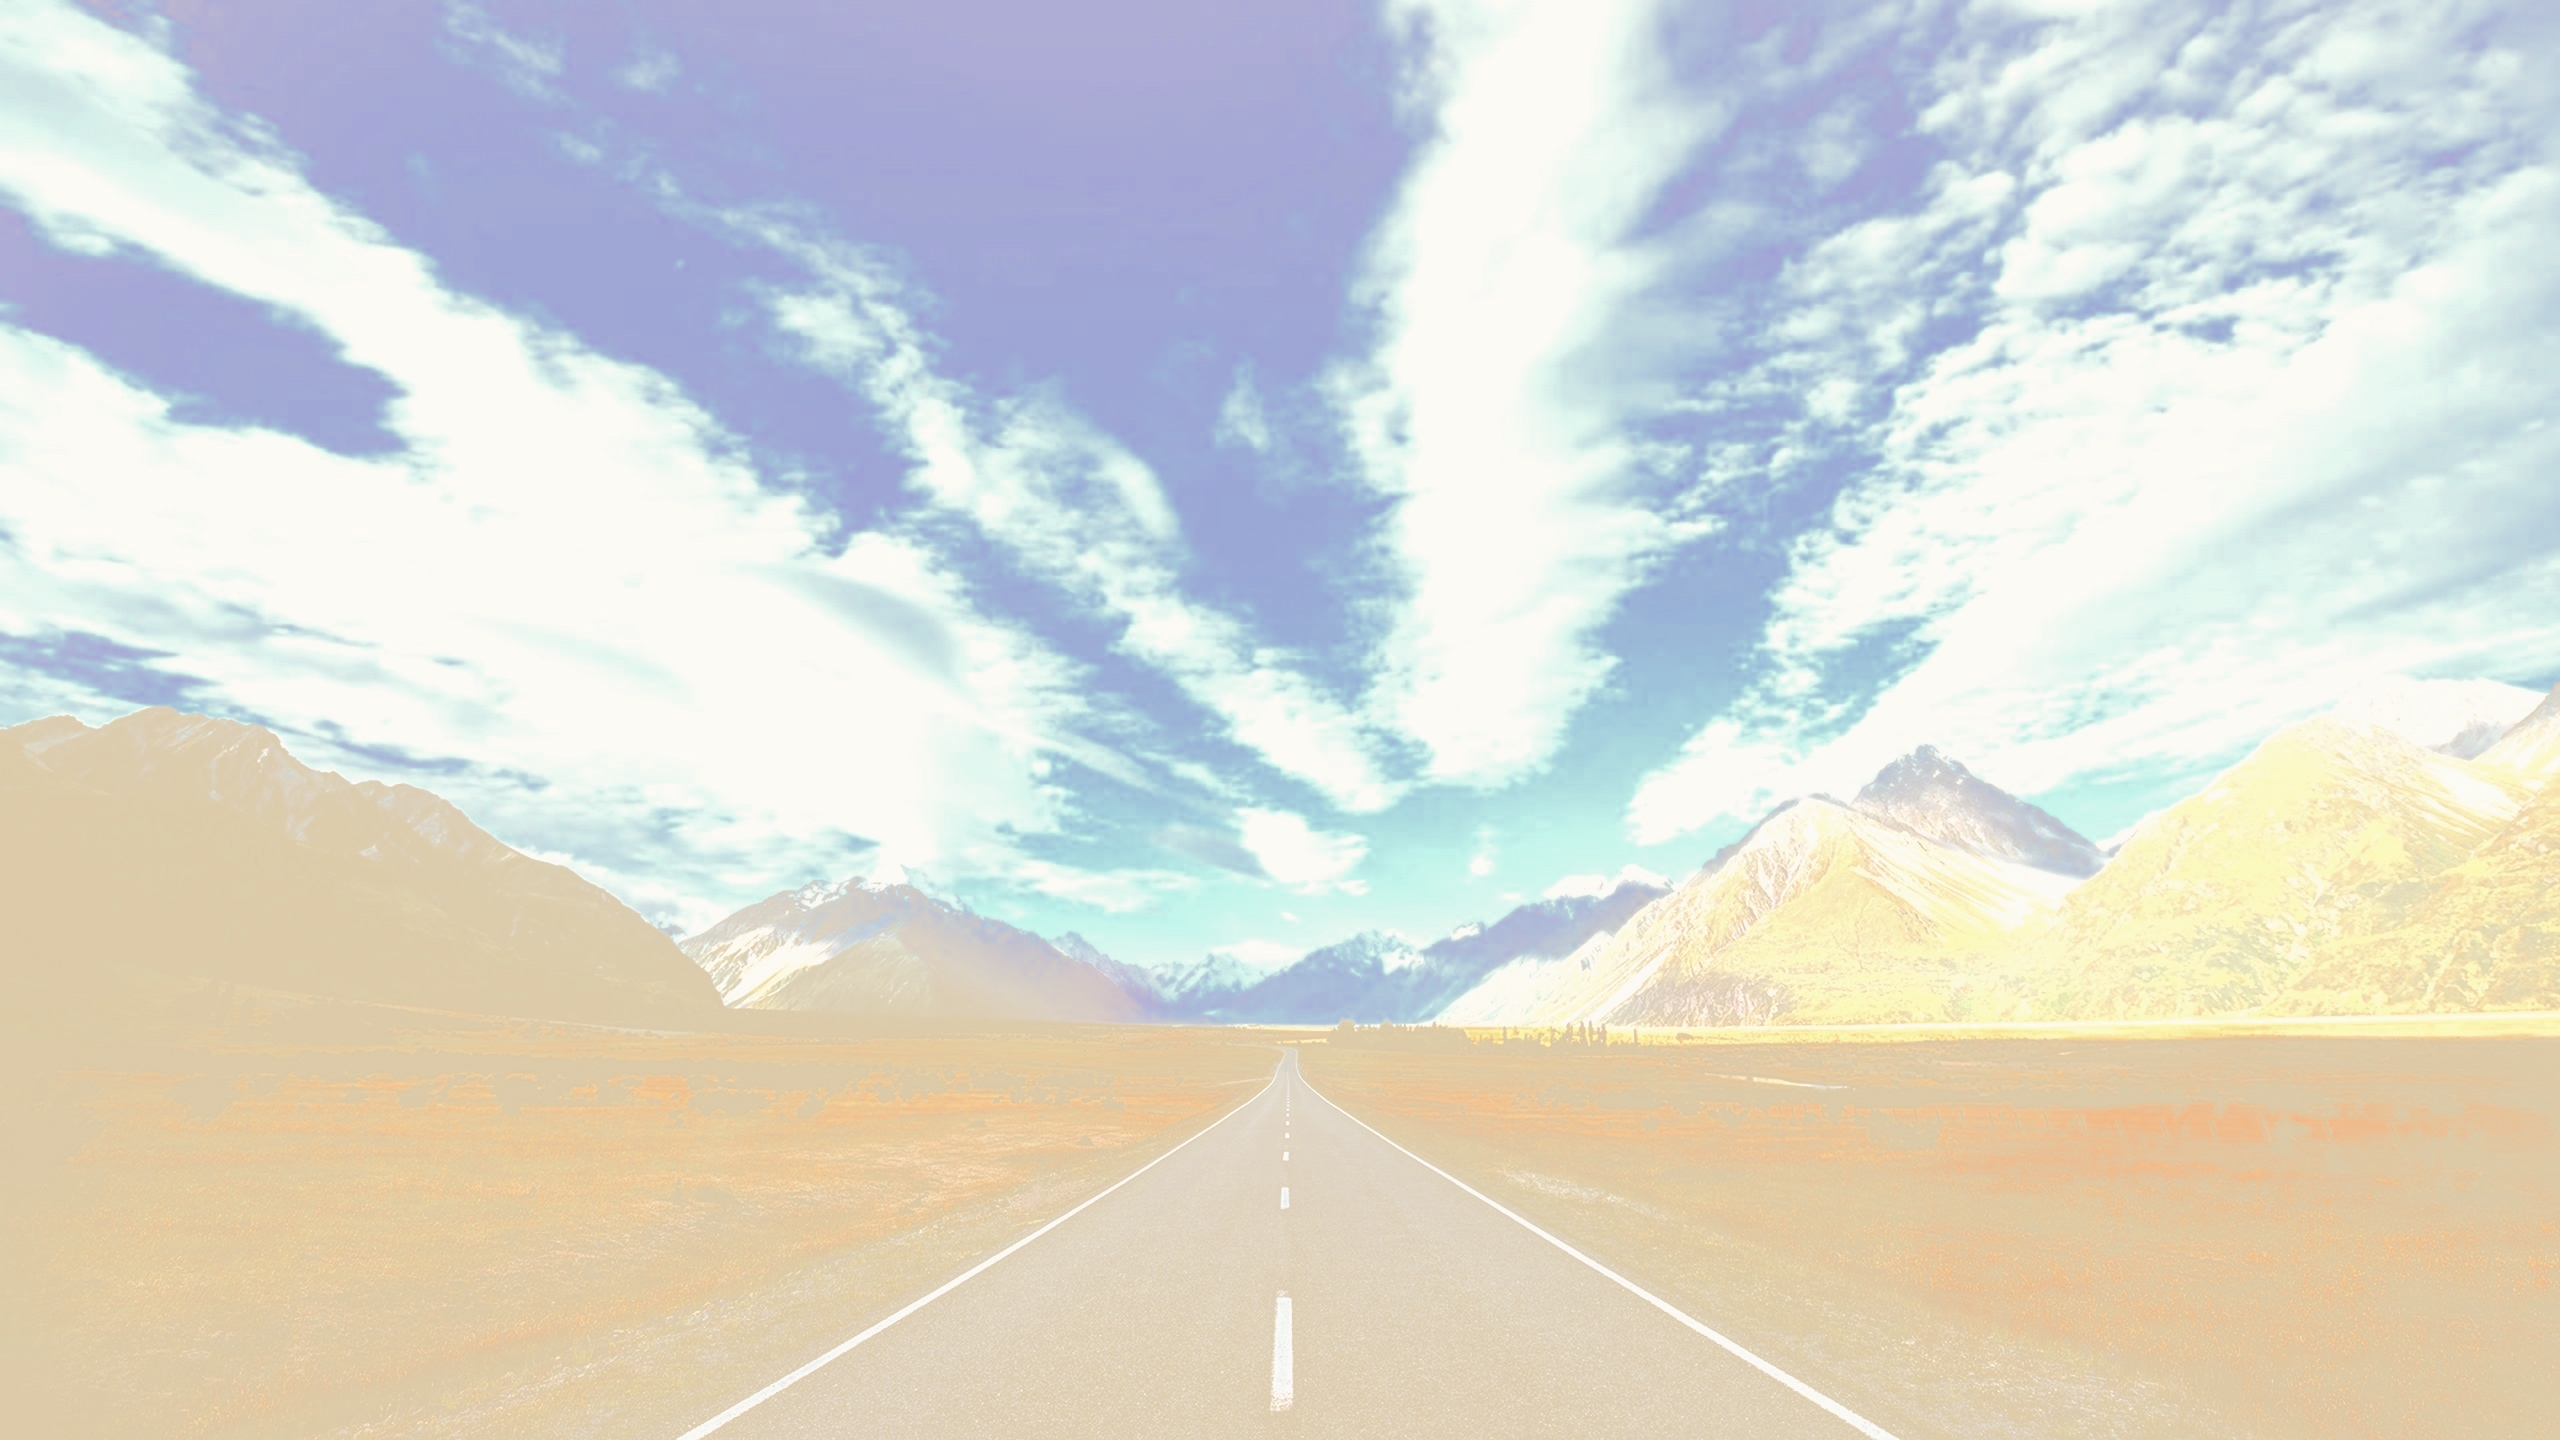
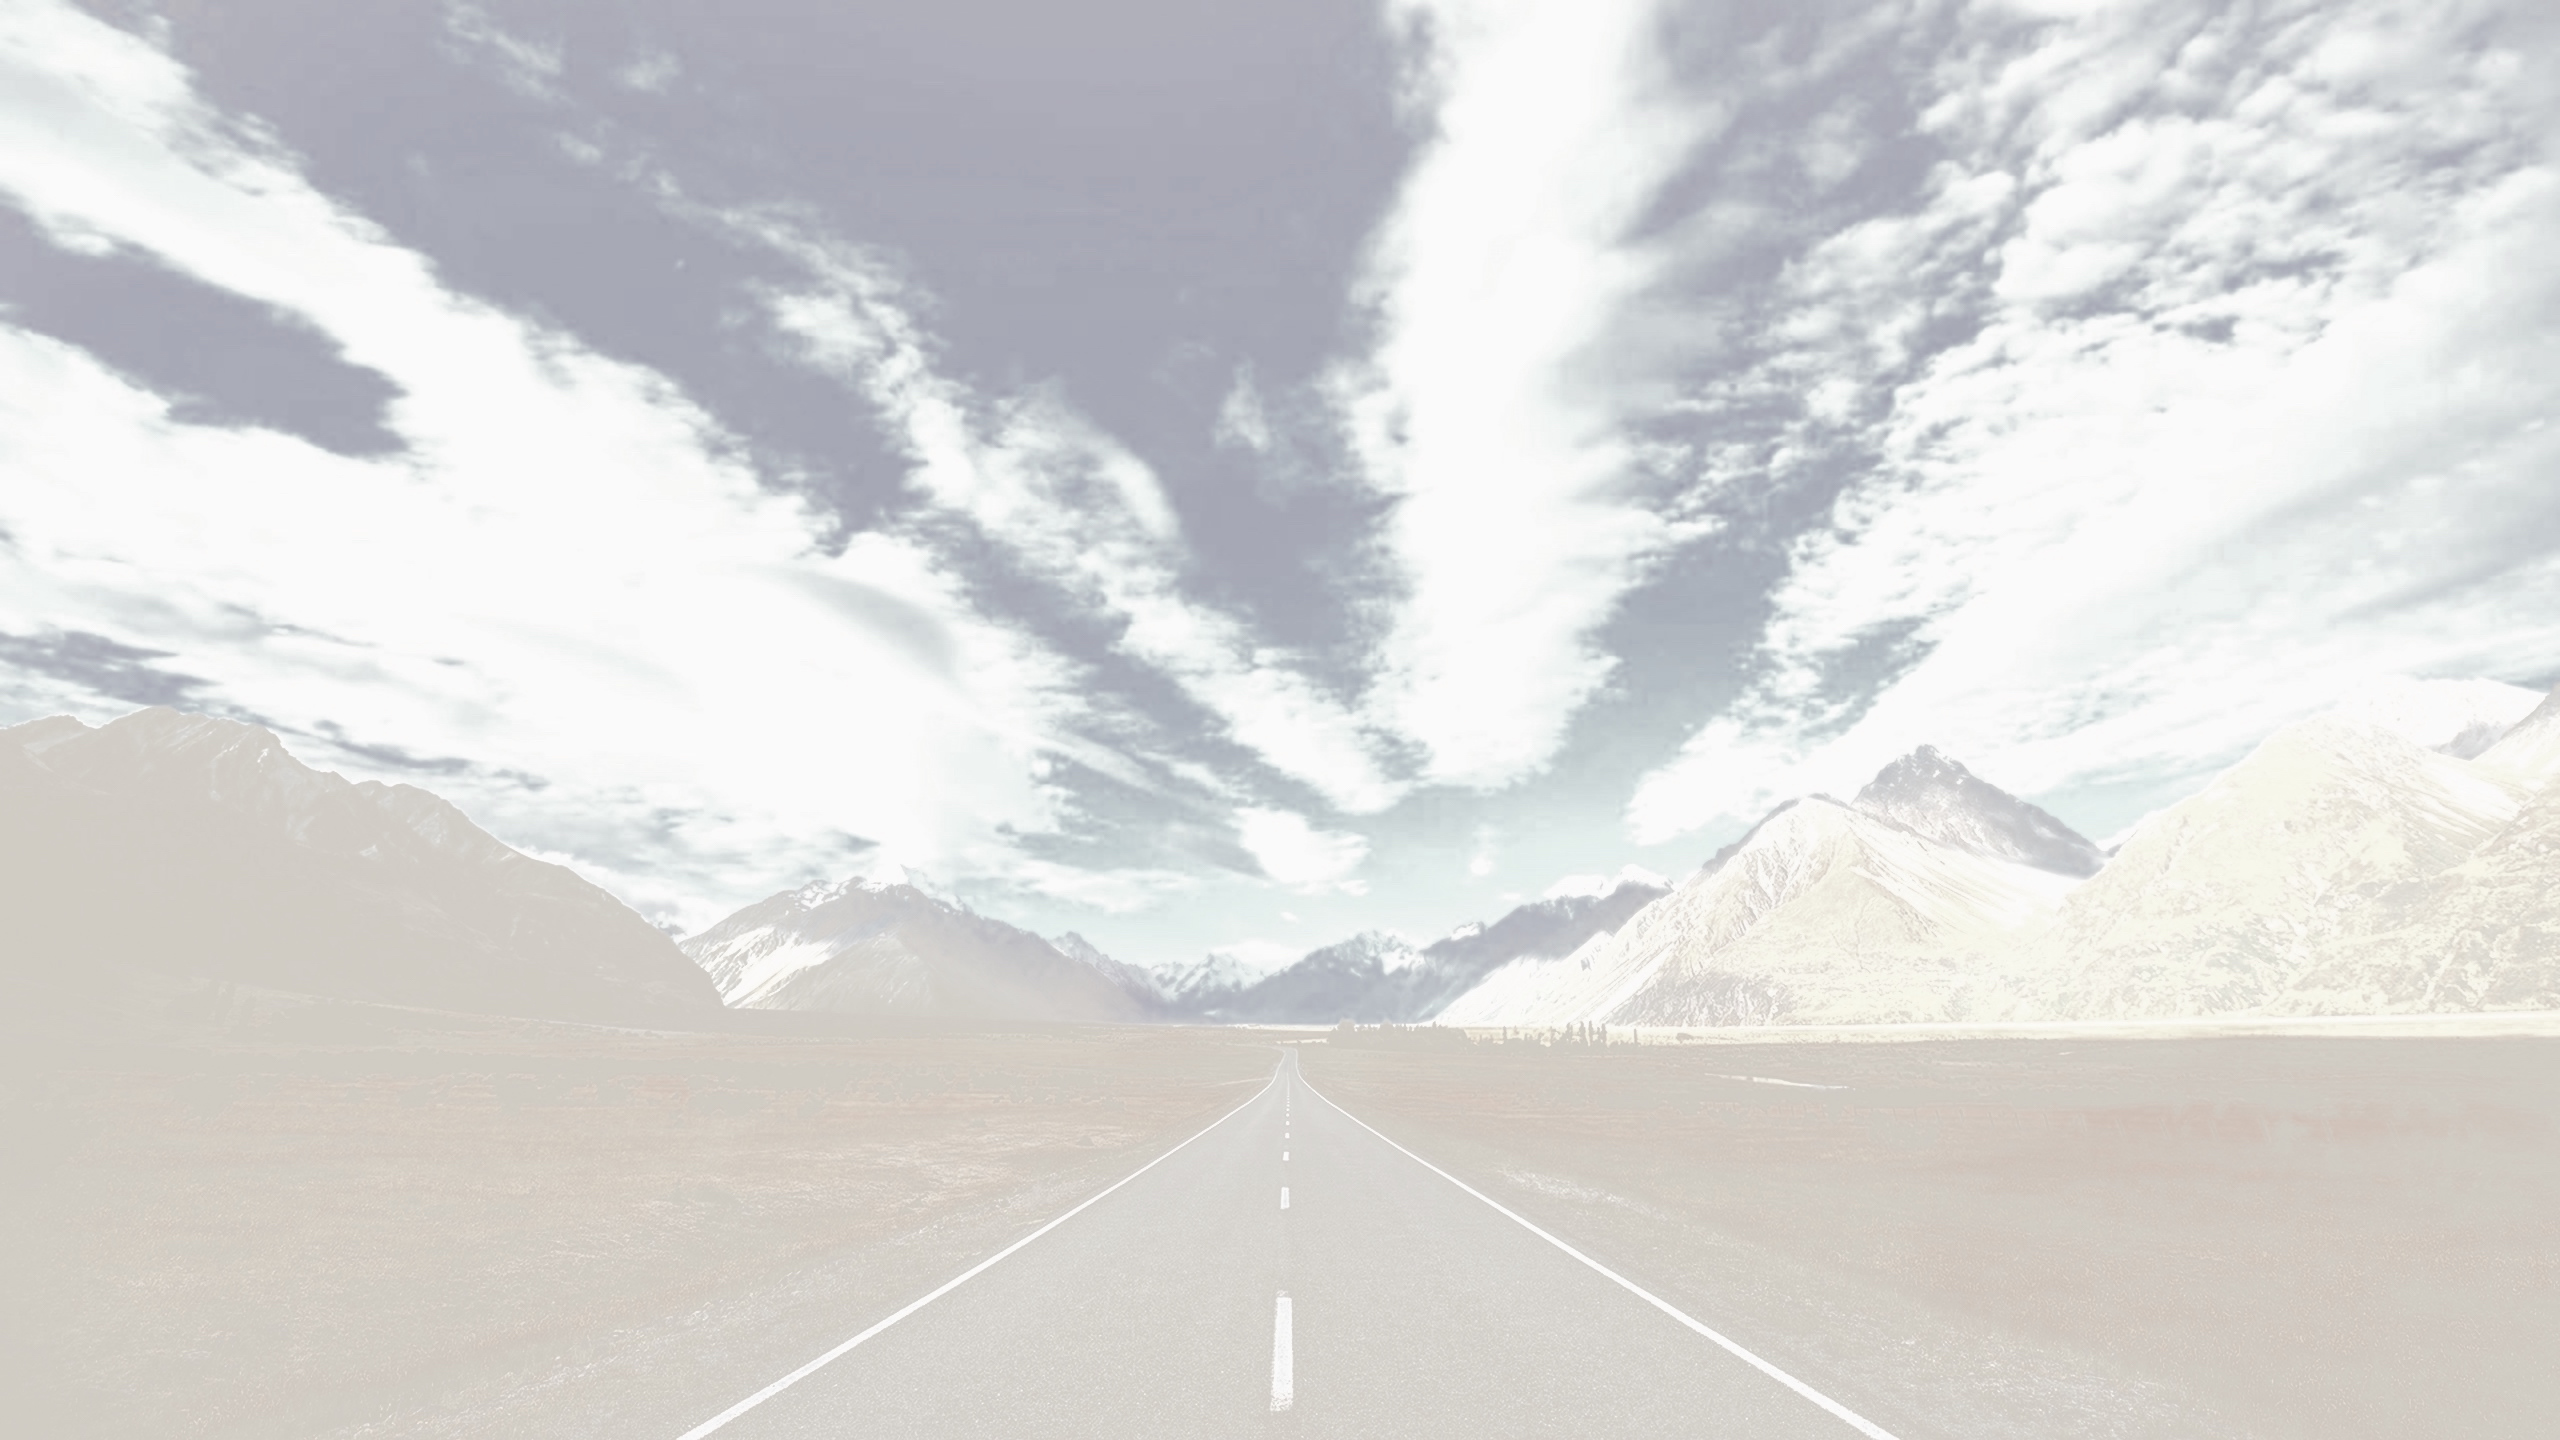
adds styling and color gradient to background and result images

diff --git a/index.html b/index.html
@@ -12,6 +12,33 @@
     <div class = "container-fluid">
       <h1>Choosing a track to study at Epicodus</h1>
       <p id="introp">So.... you've finally takin the plunge and you are a student at Epicodus! Congrats! You've made an excellent choice! Now the question remains, which track should you chose to study. Although most students find that they will need to learn other languages after they finish at Epicodus it's still important to pick a track that you feel will put your best foot forward. This brief survey can help you decide which track to study. </p>
+      <!-- results-->
+      <div id="results">
+        <div id = "resultdesign">
+          <h3><img class="imgresult" src="img/design.png">You should study design!</h3>
+          <p>Find out more about the courses offered at Epicodus by clicking <a href="http://www.epicodus.com/design">here</a>!
+        </div>
+        <div id = "resultjva">
+          <h3><img class="imgresult" src="img/java.ico">You should study Java!</h3>
+          <p>Find out more about the courses offered at Epicodus by clicking <a href="http://www.epicodus.com/java">here</a>!
+        </div>
+        <div id = "resultphp">
+          <h3><img class="imgresult" src="img/php.png"> You should study PHP!</h3>
+          <p>Find out more about the courses offered at Epicodus by clicking <a href="http://www.epicodus.com/php">here</a>!
+        </div>
+        <div id = "resultcsharp">
+          <h3><img class="imgresult" src="img/csharp.png">You should study C#!</h3>
+          <p>Find out more about the courses offered at Epicodus by clicking <a href="http://www.epicodus.com/c-sharp">here</a>!
+        </div>
+        <div id = "resultruby">
+          <h3><img class="imgresult" src="img/ruby.png">You should study Ruby!</h3>
+          <p>Find out more about the courses offered at Epicodus by clicking <a href="http://www.epicodus.com/ruby">here</a>!
+        </div>
+        <div id = "tryagain">
+          <h3><img class="imgresult" src="img/sad.png"><br>Sorry, we could not find the best fit for you, please rethink about your answers and try again.</h3>
+          <p>Or you can do some more research and find out more about the courses offered at Epicodus by clicking <a href="http://www.epicodus.com/courses-overview/">here</a>!
+        </div>
+      </div>
       <form id="survey">
         <!--question1-->
         <h3>What was your favorite class while in highschool/college?</h3>
@@ -135,34 +162,8 @@
             No where, I want to work on backend projects.
           </label>
         </div>
-      <hr>
       <button type="submit" class="btn-classic">Submit</button>
     </form>
-    <!-- results-->
-      <div id = "resultdesign">
-        <h3>You should study design!</h3>
-        <p>Find out more about the courses offered at Epicodus by clicking <a href="http://www.epicodus.com/design">here</a>!
-      </div>
-      <div id = "resultjva">
-        <h3>You should be study Java!</h3>
-        <p>Find out more about the courses offered at Epicodus by clicking <a href="http://www.epicodus.com/java">here</a>!
-      </div>
-      <div id = "resultphp">
-        <h3>You should study PHP!</h3>
-        <p>Find out more about the courses offered at Epicodus by clicking <a href="http://www.epicodus.com/php">here</a>!
-      </div>
-      <div id = "resultcsharp">
-        <h3>You should study C#!</h3>
-        <p>Find out more about the courses offered at Epicodus by clicking <a href="http://www.epicodus.com/c-sharp">here</a>!
-      </div>
-      <div id = "resultruby">
-        <h3>You should should study Ruby!</h3>
-        <p>Find out more about the courses offered at Epicodus by clicking <a href="http://www.epicodus.com/ruby">here</a>!
-      </div>
-      <div id = "tryagain">
-        <h3>Sorry, we could not find the best fit for you, please rethink about your answers and try again.</h3>
-        <p>Or you can do some more research and find out more about the courses offered at Epicodus by clicking <a href="http://www.epicodus.com/courses-overview/">here</a>!
-      </div>
   </div>
   </body>
 </html>

diff --git a/css/styles.css b/css/styles.css
@@ -1,52 +1,115 @@
 #resultdesign {
   display: none;
+  border: 2px solid black;
+  min-width: 200px;
+  min-height: 200px;
+  float:right;
+  margin-right: 10%;
+  margin-top: 2%;
+  padding: 30px;
+  background: linear-gradient(180deg, #02affe, white);
 }
-
 #resultjva {
   display: none;
+  border: 2px solid black;
+  min-width: 200px;
+  min-height: 200px;
+  float:right;
+  margin-right: 10%;
+  margin-top: 2%;
+  padding: 30px;
+  background: linear-gradient(180deg, #02affe, white);
 }
-
 #resultphp {
   display: none;
+  border: 2px solid black;
+  min-width: 200px;
+  min-height: 200px;
+  float:right;
+  margin-right: 10%;
+  margin-top: 3%;
+  padding: 30px;
+  background: linear-gradient(180deg, #02affe, white);
 }
-
 #resultcsharp {
   display: none;
+  border: 2px solid black;
+  min-width: 200px;
+  min-height: 200px;
+  float:right;
+  margin-right: 10%;
+  margin-top: 2%;
+  padding: 30px;
+  background: linear-gradient(180deg, #02affe, white);
 }
-
 #resultruby {
   display: none;
+  border: 2px solid black;
+  min-width: 200px;
+  min-height: 200px;
+  float:right;
+  margin-right: 10%;
+  margin-top: 2%;
+  padding: 30px;
+  background: linear-gradient(180deg, #02affe, white);
 }
-
 #tryagain {
   display: none;
+  border: 2px solid black;
+  max-width: 500px;
+  min-height: 200px;
+  float:right;
+  margin-right: 10%;
+  margin-top: 2%;
+  padding: 30px;
+  background: linear-gradient(180deg, #02affe, white);
 }
-
+body {
+  background: linear-gradient(180deg, #02affe, white, #fe5101);
+  background-repeat: no-repeat;
+  }
 .container-fluid {
-  padding: 75px;
+  padding: 15px;
   font-family: "palatino", serif;
-
+  margin: 100px;
+  background-color: white;
 }
 h1 {
   margin-bottom: 3px;
-  font-family: arial serif!important;
+  font-family: 'Droid serif', serif;
   text-align: center;
-  border-style: double;
-  border-width: 10px;
+  border-bottom: solid;
+  border-width: 5px;
+  border-top: solid;
+  border-color: black;
+  border-width: 5px;
   padding: 5px;
   font-size: 500%;
-}
+  background-color: #fe5101;
+  color: white;
+  text-shadow: 2px 2px black;
 
+}
 #introp {
   font-weight: bold;
   padding: 20px;
   font-size: 110%;
-
 }
-
-body {
-  background-image: url(../img/path.jpg);
-  }
 h3 {
   text-decoration: underline;
+  font-weight: bold;
+}
+label {
+  font-size: 110%;
+  font-weight: bold!important;
+}
+
+.imgresult {
+  padding: 20px;
+  min-width: 200px;
+  min-height: 200px;
+}
+
+.radio:hover {
+  color:#fe5102;
 }

diff --git a/js/scripts.js b/js/scripts.js
@@ -90,20 +90,20 @@ $(document).ready(function() {
       ruby += 1;
     }
     else if (answerq5 === "client"){
-      design += 2;
+      design += 200;
       php += 1;
     }
     else if (answerq5 === "nowhere"){
-      jva += 2;
+      jva += 1;
       php += 1;
-      csharp += 3;
+      csharp += 2;
       ruby += 3;
     }
 
     var result = ""
 
   if ((design>jva) && (design>php) && (design>csharp) && (design>ruby)){
-  $("#resultdesign").show();
+  $("#resultdesign").fadeIn("slow");
   $("#resultjva").hide();
   $("#resultphp").hide();
   $("#resultcsharp").hide();
@@ -111,7 +111,7 @@ $(document).ready(function() {
   $("#tryagain").hide();
   }
   else if((jva>design) && (jva>php) && (jva>csharp) && (jva>ruby)){
-  $("#resultjva").show();
+  $("#resultjva").fadeIn("slow");
   $("#resultdesign").hide();
   $("#resultphp").hide();
   $("#resultcsharp").hide();
@@ -119,7 +119,7 @@ $(document).ready(function() {
   $("#tryagain").hide();
   }
   else if((php>design) && (php>jva) && (php>csharp) && (php>ruby)){
-  $("#resultphp").show();
+  $("#resultphp").fadeIn("slow");
   $("#resultdesign").hide();
   $("#resultjva").hide();
   $("#resultcsharp").hide();
@@ -127,7 +127,7 @@ $(document).ready(function() {
   $("#tryagain").hide();
   }
   else if((csharp>design) && (csharp>jva) && (csharp>php) && (jva>ruby)){
-  $("#resultcsharp").show();
+  $("#resultcsharp").fadeIn("slow");
   $("#resultdesign").hide();
   $("#resultjva").hide();
   $("#resultphp").hide();
@@ -135,7 +135,7 @@ $(document).ready(function() {
   $("#tryagain").hide();
   }
   else if((ruby>design) && (ruby>jva) && (ruby>php) && (ruby>csharp)){
-  $("#resultruby").show();
+  $("#resultruby").fadeIn("slow");
   $("#resultdesign").hide();
   $("#resultjva").hide();
   $("#resultphp").hide();
@@ -143,7 +143,7 @@ $(document).ready(function() {
   $("#tryagain").hide();
   }
   else {
-    $("#tryagain").show();
+    $("#tryagain").fadeIn("slow");
     $("#resultruby").hide();
     $("#resultdesign").hide();
     $("#resultjva").hide();
